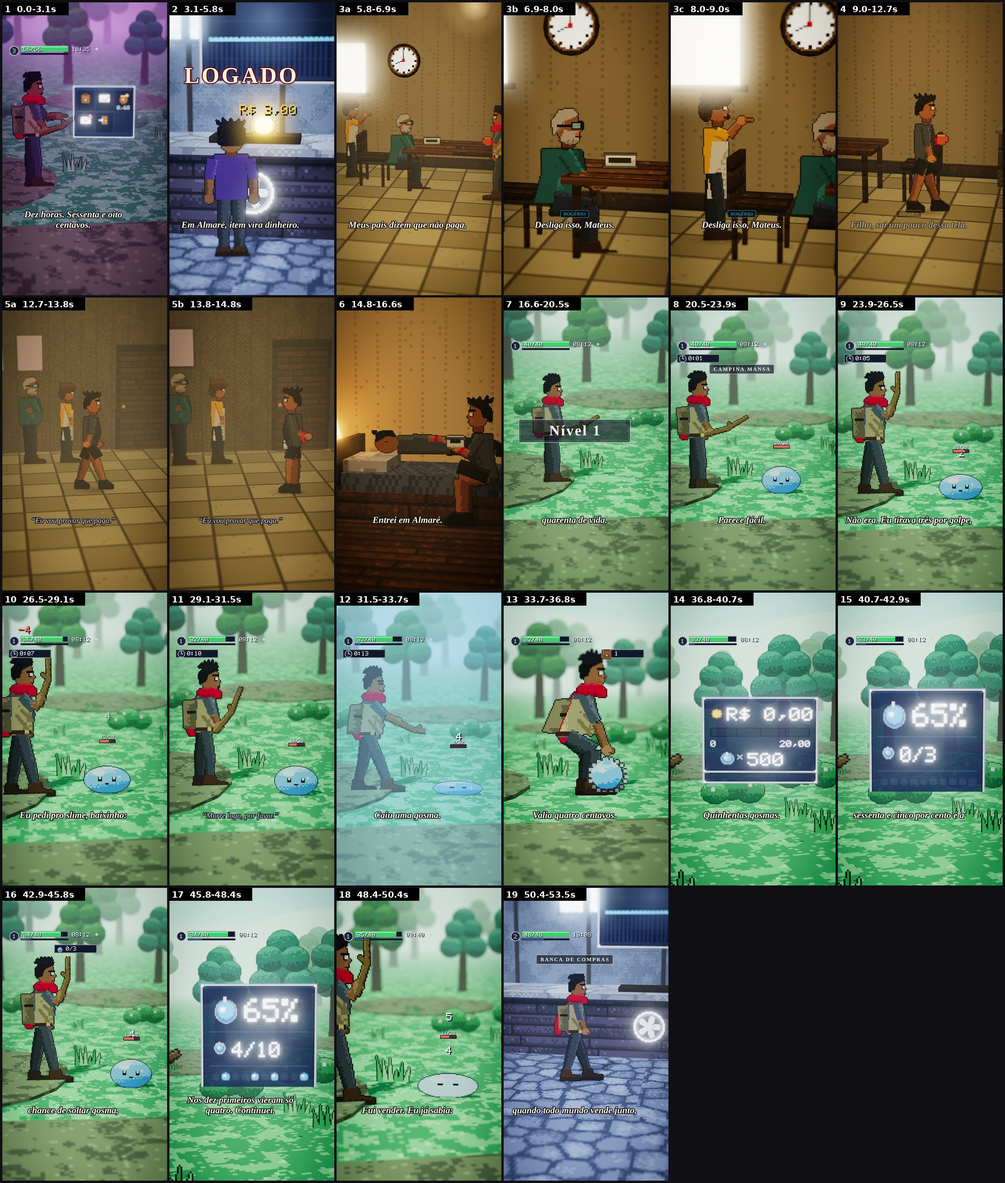
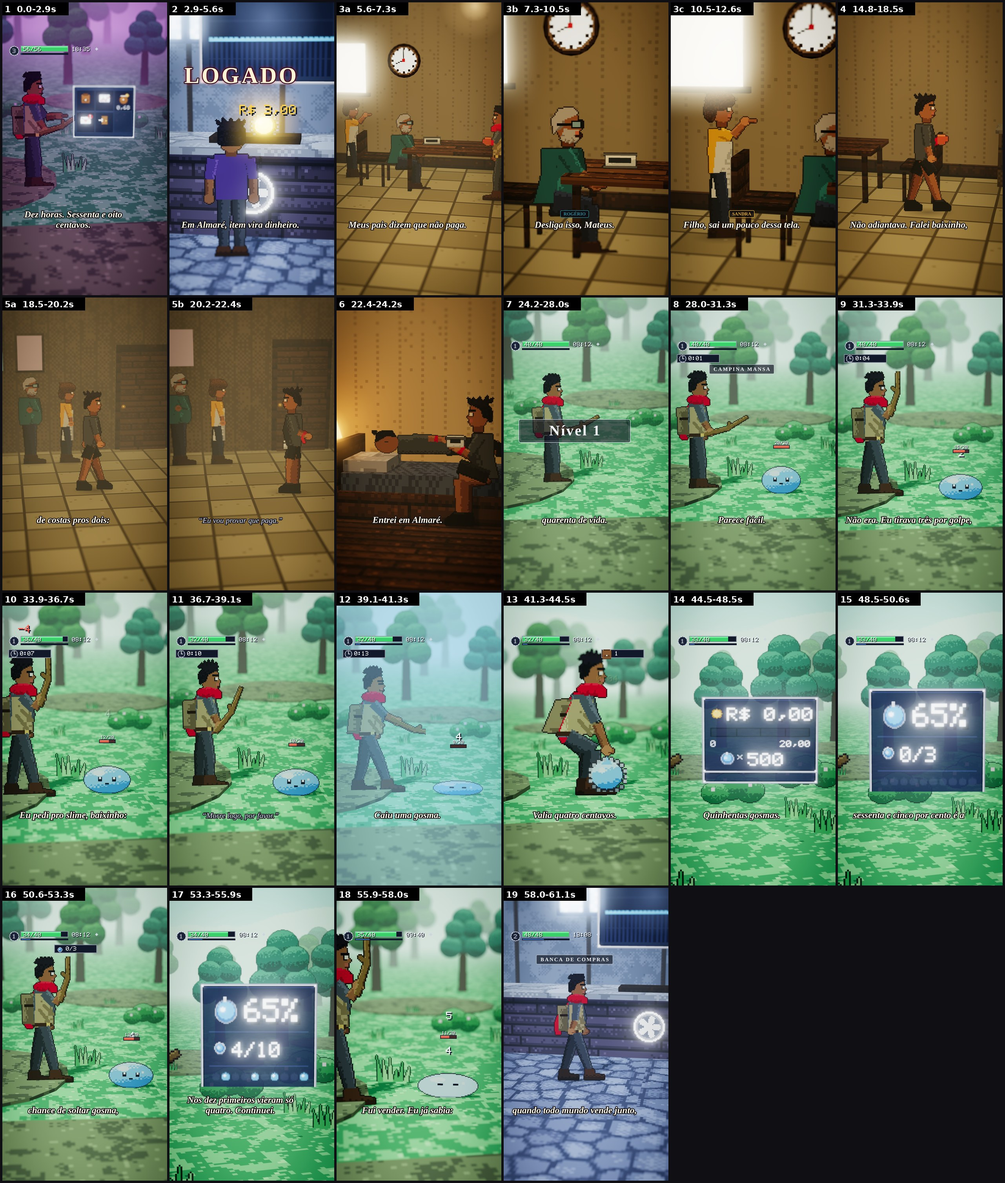
LOGADO ep01: cenas, personagens e storyboard
Claude-Session: https://claude.ai/code/session_01Ef8dZ7gdYTYz6rnWvHzQUy

diff --git a/serie/ep01/filme/hud.js b/serie/ep01/filme/hud.js
@@ -83,7 +83,7 @@ export function drawPanel(g, kind, st = {}, t = 0) {
     if (st.tag) { R_(g, 8, 62, 96, 15, COL.slate2); ICON.moeda(g, 16, 70, 3); ptext(g, st.tag, 24, 66, COL.paper, 1); if (st.tag2) { ICON.gosma(g, 66, 69, .45); ptext(g, st.tag2, 74, 66, COL.silver); } }
   } else if (kind === 'cartas') {
     R_(g, 8, 8, 96, 84, COL.slate2); R_(g, 10, 10, 92, 80, '#ece4d0'); R_(g, 10, 10, 92, 2, '#d4c9aa');
-    ICON.dourada(g, 32, 38); ptext(g, 'R$ 50,00', 48, 22, '#2a2010', 2); R_(g, 46, 40, 52, 1, '#b4a888');
+    ICON.dourada(g, 32, 38); ptext(g, 'R$', 46, 14, '#2a2010', 1); ptext(g, '50,00', 44, 24, '#2a2010', 2); R_(g, 46, 40, 52, 1, '#b4a888');
     ICON.relogio(g, 22, 72); ptext(g, st.deadline ?? '08:00', 32, 68, '#2a2010', 2);
     ICON.carta(g, 86, 74, null);
   } else if (kind === 'diagrama') {

diff --git a/serie/ep01/filme/NOTAS.md b/serie/ep01/filme/NOTAS.md
@@ -11,7 +11,7 @@ Pasta: `serie/ep01/filme/`. Motor: base do estilo (px/kit/fx/post_ts copiados da
 - **Storyboard**: `storyboard.jpg` (grade numerada) + `storyboard_parte1.jpg`/`parte2.jpg`; quadros individuais em `stills/full/`.
 
 ## Falta para o render final
-1. Reler `tempos.json` final (o atual ainda é o de 112,47 s sem 3a–3c/5a–5b; o gerador divide o plano 3 e o 5 proporcionalmente) e rodar `node tools/gen_shots.mjs`; conferir eventos de luta/cura/estouro contra `tempos.json.eventos`.
+1. `tempos.json` (119,37 s, 43 entradas) já foi lido na última geração; reconferir eventos de luta/cura/estouro contra `tempos.json.eventos` e rodar `node tools/gen_shots.mjs` se mudar.
 2. Ajustes visuais: zona de cartões (cartão "Nível 1" cobre o tronco do Teco), planos "por cima do ombro" mostram só um pedaço do Teco, orelhas/rosto de Rogério e Sandra ainda simples, Teco de frente com cachecol dominante, rachadura do galho só legível no macro (plano 26), tira de foco do mapa (plano 35) não aplicada, chão com tracejado de dither ainda visível.
 3. Áudio (voz, música, foley, mix), `video.mjs` (24 fps, `--workers 3`, ~10 s por quadro em software GL: cerca de 40 min por 1000 quadros por worker; usar GPU se houver), mux, `readcheck.mjs`.
 4. Conferir R4 do `.srt` com os tempos reais e o `speaker` de P1/P2.
